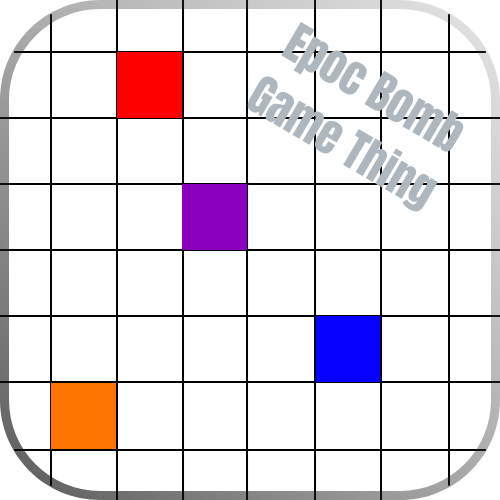
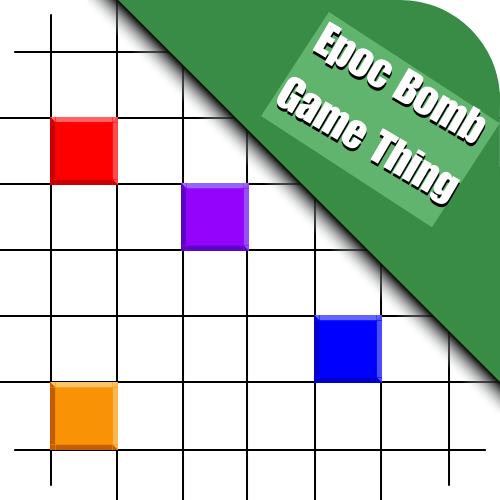
Version 24

diff --git a/main.py b/main.py
@@ -1,5 +1,5 @@
 # Epoc Bomb Game Thing
-# Version 0.022
+# Version 24
 # Developed by Turtlerock Industries led by @Commandline
 # A grid-based strategy game
 
@@ -36,7 +36,7 @@ score = 0
 volume = True
 targetsLeft = 0
 round = 1
-maxRounds = 9
+maxRounds = 37
 roundStarted = False
 shardsLeft = -1
 shardsLoaded = False
@@ -119,7 +119,6 @@ class Bomb(game.sprite.Sprite):
         self.kill()
         del self
         self = None
-
 
 
 class Target(game.sprite.Sprite):
@@ -275,28 +274,32 @@ class Diode(game.sprite.Sprite):
         #positive X gen
         for i in range(1, 21):
             laser = Laser(self.rect.x + i * 25, self.rect.y, 25, 25, "horizontal")
-            laser.update()
+            if laser.update() == True:
+                break
             all_sprites.add(laser)
             laser_group.add(laser)
         
         #negative X gen
         for i in range(1, 21):
             laser = Laser(self.rect.x + -i * 25, self.rect.y, 25, 25, "horizontal")
-            laser.update()
+            if laser.update() == True:
+                break
             all_sprites.add(laser)
             laser_group.add(laser)
 
         #positive Y gen
         for i in range(1, 21):
             laser = Laser(self.rect.x, self.rect.y + i * 25, 25, 25, "vertical")
-            laser.update()
+            if laser.update() == True:
+                break
             all_sprites.add(laser)
             laser_group.add(laser)
         
         #negative Y gen
         for i in range(1, 21):
             laser = Laser(self.rect.x, self.rect.y + -i * 25, 25, 25, "vertical")
-            laser.update()
+            if laser.update() == True:
+                break
             all_sprites.add(laser)
             laser_group.add(laser)
     
@@ -309,6 +312,7 @@ class Diode(game.sprite.Sprite):
                 laser.kill()
                 del laser
                 laser = None
+
 
 class Laser(game.sprite.Sprite):
     def __init__(self, x, y, width, height, direction):
@@ -333,6 +337,7 @@ class Laser(game.sprite.Sprite):
             self.kill()
             del self
             self = None
+            return True
 
     def move(self, dx, dy):
         # Update the sprite's position and store it
@@ -1130,7 +1135,7 @@ while running:
         writeText("Bombs: " + str(bombsLeft), "Arial", 25,255,255,255,650,560)
 
         #logo image
-        newimage = game.transform.scale(game.image.load('images/icon.png'), (150, 150))
+        newimage = game.transform.scale(game.image.load('images/oldicon1.png'), (150, 150))
         screen.blit(newimage,(600,25))
 
         #logo text
@@ -1221,23 +1226,73 @@ while running:
                 roundStarted = True
                 if round < 4:
                     createTargets()
-                    for i in range(50):
-                        createDiode()
                     bombsLeft = 1
                 elif round < 7:
                     createTargets()
                     createTargets()
-                    for i in range(5):
-                        createDiode()
                     bombsLeft = 2
-                    for i in range(10):
-                        createHole()
-                else:
+                elif round < 10:
                     createTargets()
                     createTargets()
                     createTargets()
                     bombsLeft = 3
+                elif round < 13:
+                    createTargets()
+                    bombsLeft = 1
+                    for i in range(10):
+                        createHole()
+                elif round < 16:
+                    createTargets()
+                    createTargets()
                     for i in range(20):
+                        createHole()
+                    bombsLeft = 2
+                elif round < 19:
+                    createTargets()
+                    createTargets()
+                    createTargets()
+                    for i in range(30):
+                        createHole()
+                    bombsLeft = 3
+                elif round < 22:
+                    createTargets()
+                    bombsLeft = 1
+                    createDiode()
+                elif round < 25:
+                    createTargets()
+                    createTargets()
+                    bombsLeft = 2
+                    for i in range(3):
+                        createDiode()
+                elif round < 28:
+                    createTargets()
+                    createTargets()
+                    createTargets()
+                    bombsLeft = 3
+                    for i in range(5):
+                        createDiode()
+                elif round < 31:
+                    createTargets()
+                    bombsLeft = 1
+                    createDiode()
+                    for i in range(10):
+                        createHole()
+                elif round < 34:
+                    createTargets()
+                    createTargets()
+                    bombsLeft = 2
+                    for i in range(3):
+                        createDiode()
+                    for i in range(30):
+                        createHole()
+                elif round < 37:
+                    createTargets()
+                    createTargets()
+                    createTargets()
+                    bombsLeft = 3
+                    for i in range(5):
+                        createDiode()
+                    for i in range(50):
                         createHole()
 
             if round < 4:
@@ -1246,7 +1301,34 @@ while running:
             elif round < 7:
                 if shardsLeft == 16:
                     shardsLoaded = True
-            else:
+            elif round < 10:
+                if shardsLeft == 24:
+                    shardsLoaded = True
+            elif round < 13:
+                if shardsLeft == 8:
+                    shardsLoaded = True
+            elif round < 16:
+                if shardsLeft == 16:
+                    shardsLoaded = True
+            elif round < 19:
+                if shardsLeft == 24:
+                    shardsLoaded = True
+            elif round < 22:
+                if shardsLeft == 8:
+                    shardsLoaded = True
+            elif round < 25:
+                if shardsLeft == 16:
+                    shardsLoaded = True
+            elif round < 28:
+                if shardsLeft == 24:
+                    shardsLoaded = True
+            elif round < 31:
+                if shardsLeft == 8:
+                    shardsLoaded = True
+            elif round < 34:
+                if shardsLeft == 16:
+                    shardsLoaded = True
+            elif round < 37:
                 if shardsLeft == 24:
                     shardsLoaded = True
     

diff --git a/README.md b/README.md
@@ -74,3 +74,24 @@ This section is dedicated to listing major versions that have fundemental aspect
 - Laser sprite, when touching the player forces all bombs of the player to drop
 - Grid Holes are randomly placed throughout the map preventing player movement
 - New version system where instead of the game being tracked by the format Version 0.001, it will now be tracked as Version 23 and the previous versions will apply to the rule, meaning the previous version (Version 0.022) is now treated as Version 22. Any version deemed a major update will be given a designated update name.
+
+### Version 24
+
+#### (Keynotes)
+- Standard round system made
+- Minor tweaks
+- Minor optimizations
+
+#### (Explanation)
+- Intended rounds beyond 9 have been made
+    - Grid Holes and Laser Diodes have introduction rounds
+    - Hard coded rounds now go up to 36
+- General code changes to enhance readability, and standardization
+- Minor optimizations to improve performance
+    - If a laser sprite is found to be out of bounds then it would force further sprites to not generate
+
+#### (Goals)
+- Improve performance when creating laser sprites
+- Looking to see if any memory leaks have been found
+- Possible sprite abstraction to allow for better time reading
+- Replaced main theme due to copyright
